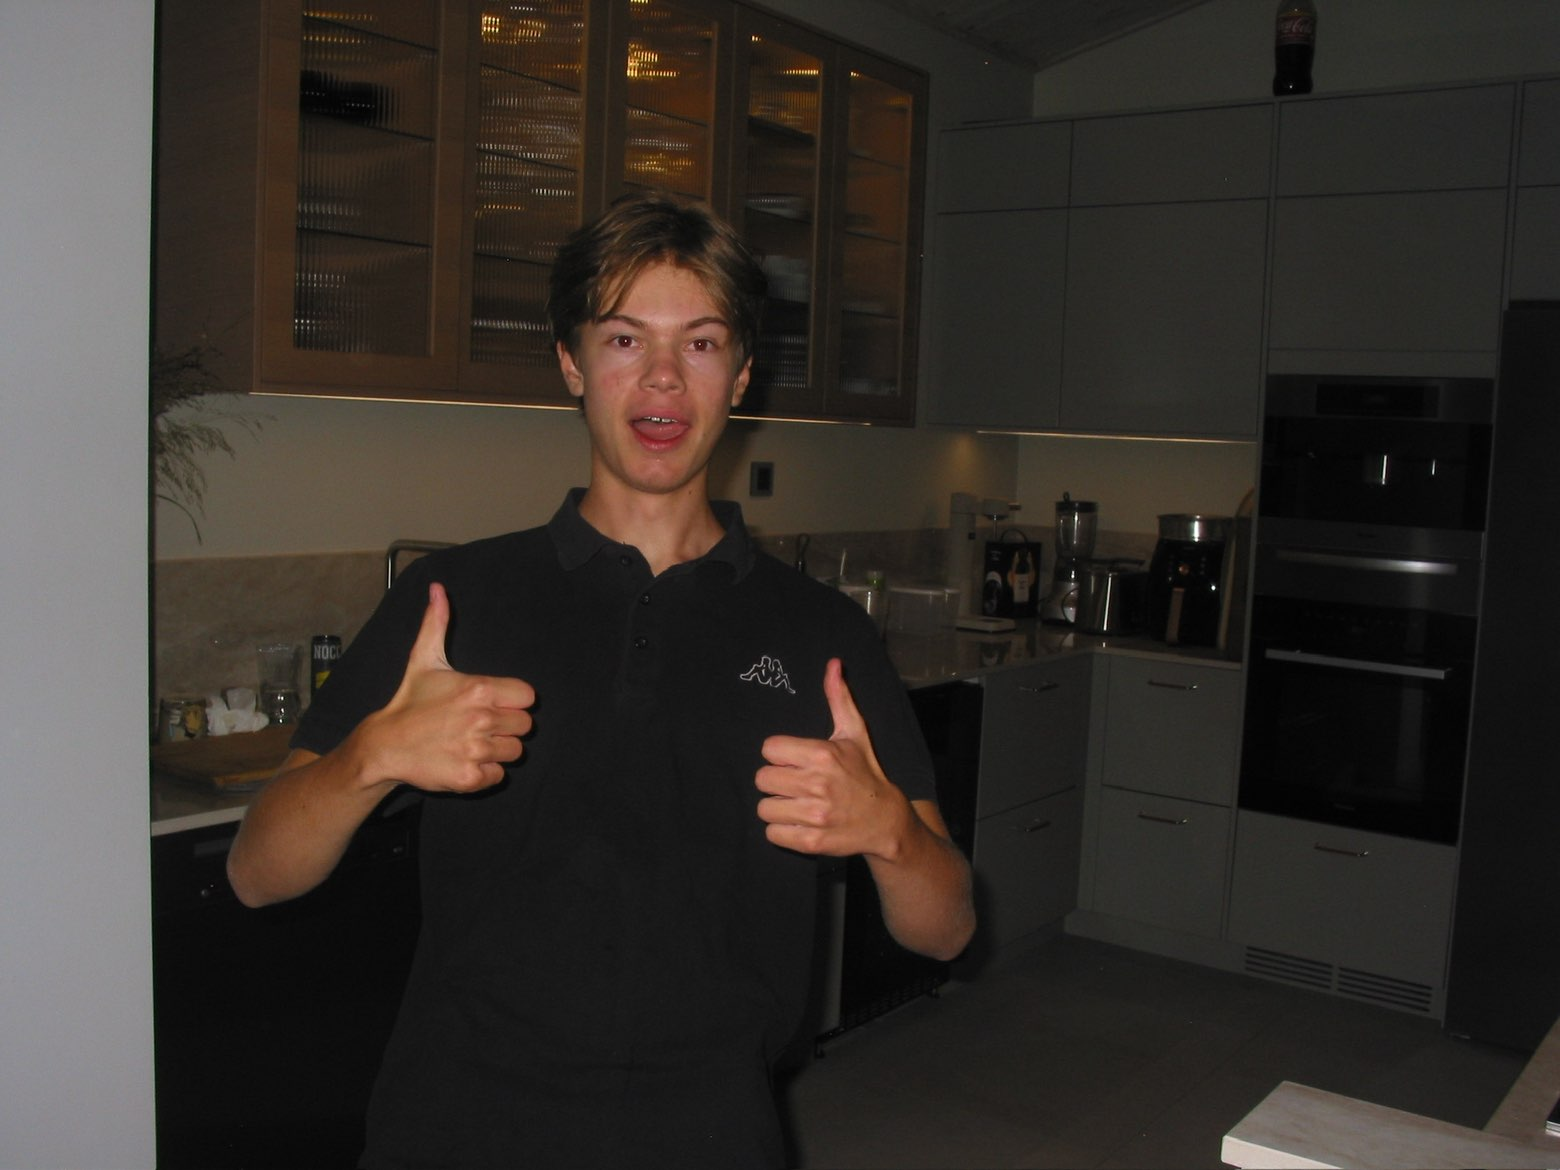
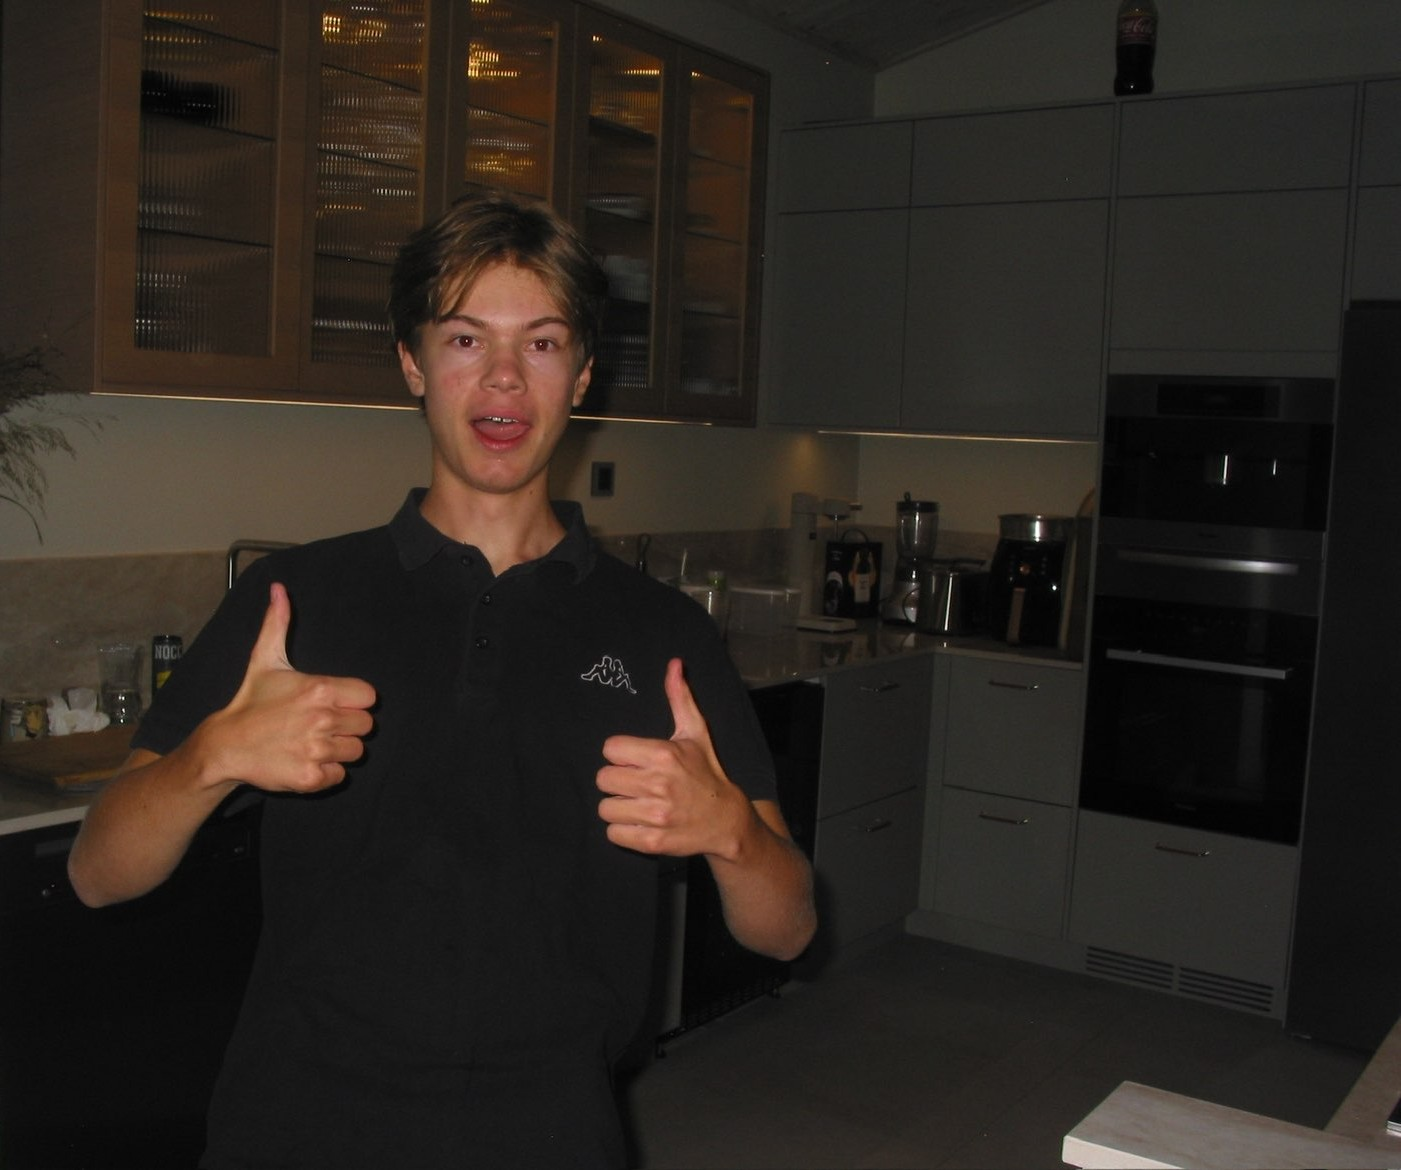
styling

diff --git a/app.py b/app.py
@@ -10,7 +10,7 @@ HTML = '''
 <body style='font-family:Arial,
 Helvetica,
 sans-serif;
-background-color:#e0e0e0;
+background-color:#f095b9;
 position: absolute;
 top: 0;
 left: 0;
@@ -21,23 +21,23 @@ align-items:center;
 flex-direction:column;'
 overflow-y:auto;'>
     <section style='position:absolute; top:50vh; left:50; height:100px;'>
-            <img src="{{ url_for('static', filename='Snapchat-1495165468.jpg') }}" alt="Snapchat" width='350px';>
+            <img src="{{ url_for('static', filename='Snapchat-1495165468.jpg') }}" alt="Snapchat" width='350px' style='border-radius:10px; box-shadow: 0px 0px 10px #eb3f84;'>
     </section>
     <h2>Nytt inlägg</h2>
     <form method="post" action="/write-json">
         <h3>Namn</h3>
-        <input name="namn">
+        <input name="namn" style='border:1px solid #ccc; border-radius:5px; padding:10px;'>
         <h3>Meddelande</h3>
-        <textarea name="meddelande" rows="6" cols="40"></textarea><br>
-        <input type="submit" value="Spara">
+        <textarea name="meddelande" rows="6" cols="40" style='border:1px solid #ccc; border-radius:5px; padding:10px;'></textarea><br>
+        <input type="submit" value="Spara" style='background-color:#eb3f84; border:none; color:white; padding:10px 20px; border-radius:5px; cursor:pointer; margin-top:10px;'>
     </form>
     <h2>Inlägg</h2>
     {% for post in posts %}
         <div style='margin-bottom:30px;
-        background-color:#f0f0f0;
+        background-color:#f279aa;
         padding:10px; width:25vw;
         border-radius:10px;
-        box-shadow: 0px 0px 10px #888888;'>
+        box-shadow: 0px 0px 10px #eb3f84;'>
             <strong>Namn: {{post.namn}}</strong>
             <p>Skrev: {{post.meddelande}}</p>
             <p>Tiden: {{post.time}}</p>
